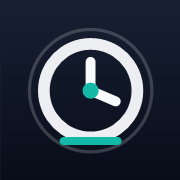
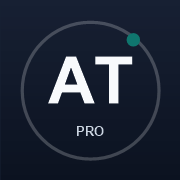
test

Changed region(s): [[0.1111, 0.1111, 0.9167, 0.9167]]

diff --git a/app.html b/app.html
@@ -9,6 +9,7 @@
     <meta name="apple-mobile-web-app-title" content="Arch Time">
     <meta name="apple-mobile-web-app-status-bar-style" content="black-translucent">
     <link rel="manifest" href="/manifest.webmanifest">
+<<<<<<< HEAD
     <link rel="icon" type="image/png" sizes="32x32" href="/assets/icons/favicon-32-symbol.png">
     <link rel="apple-touch-icon" href="/apple-touch-icon.png">
     <link rel="apple-touch-icon-precomposed" href="/apple-touch-icon-precomposed.png">
@@ -16,6 +17,10 @@
     <link rel="apple-touch-icon" sizes="152x152" href="/apple-touch-icon-152.png">
     <link rel="apple-touch-icon" sizes="167x167" href="/apple-touch-icon-167.png">
     <link rel="apple-touch-icon" sizes="180x180" href="/apple-touch-icon-180.png">
+=======
+    <link rel="icon" type="image/png" sizes="32x32" href="/assets/icons/favicon-32.png">
+    <link rel="apple-touch-icon" sizes="180x180" href="/assets/icons/apple-touch-icon.png">
+>>>>>>> parent of e8267b9 (replace ios icon with symbol)
     <meta name="robots" content="noindex, nofollow">
     <title>Arch Time Pro - Studio & Impresa Management</title>
     <script>

diff --git a/guida.html b/guida.html
@@ -9,6 +9,7 @@
     <meta name="apple-mobile-web-app-title" content="Arch Time">
     <meta name="apple-mobile-web-app-status-bar-style" content="black-translucent">
     <link rel="manifest" href="/manifest.webmanifest">
+<<<<<<< HEAD
     <link rel="icon" type="image/png" sizes="32x32" href="/assets/icons/favicon-32-symbol.png">
     <link rel="apple-touch-icon" href="/apple-touch-icon.png">
     <link rel="apple-touch-icon-precomposed" href="/apple-touch-icon-precomposed.png">
@@ -16,6 +17,10 @@
     <link rel="apple-touch-icon" sizes="152x152" href="/apple-touch-icon-152.png">
     <link rel="apple-touch-icon" sizes="167x167" href="/apple-touch-icon-167.png">
     <link rel="apple-touch-icon" sizes="180x180" href="/apple-touch-icon-180.png">
+=======
+    <link rel="icon" type="image/png" sizes="32x32" href="/assets/icons/favicon-32.png">
+    <link rel="apple-touch-icon" sizes="180x180" href="/assets/icons/apple-touch-icon.png">
+>>>>>>> parent of e8267b9 (replace ios icon with symbol)
     <meta name="robots" content="noindex, nofollow">
     <title>Il Metodo | Arch Time Pro</title>
     <script src="https://cdn.tailwindcss.com"></script>

diff --git a/index.html b/index.html
@@ -9,6 +9,7 @@
     <meta name="apple-mobile-web-app-title" content="Arch Time">
     <meta name="apple-mobile-web-app-status-bar-style" content="black-translucent">
     <link rel="manifest" href="/manifest.webmanifest">
+<<<<<<< HEAD
     <link rel="icon" type="image/png" sizes="32x32" href="/assets/icons/favicon-32-symbol.png">
     <link rel="apple-touch-icon" href="/apple-touch-icon.png">
     <link rel="apple-touch-icon-precomposed" href="/apple-touch-icon-precomposed.png">
@@ -16,6 +17,10 @@
     <link rel="apple-touch-icon" sizes="152x152" href="/apple-touch-icon-152.png">
     <link rel="apple-touch-icon" sizes="167x167" href="/apple-touch-icon-167.png">
     <link rel="apple-touch-icon" sizes="180x180" href="/apple-touch-icon-180.png">
+=======
+    <link rel="icon" type="image/png" sizes="32x32" href="/assets/icons/favicon-32.png">
+    <link rel="apple-touch-icon" sizes="180x180" href="/assets/icons/apple-touch-icon.png">
+>>>>>>> parent of e8267b9 (replace ios icon with symbol)
     <meta name="robots" content="noindex, nofollow">
     <title>Arch Time Pro | Margini chiari senza un nuovo gestionale</title>
     <script src="https://cdn.tailwindcss.com"></script>

diff --git a/offline.html b/offline.html
@@ -6,6 +6,7 @@
     <meta name="theme-color" content="#172033">
     <meta name="robots" content="noindex, nofollow">
     <link rel="manifest" href="/manifest.webmanifest">
+<<<<<<< HEAD
     <link rel="icon" type="image/png" sizes="32x32" href="/assets/icons/favicon-32-symbol.png">
     <link rel="apple-touch-icon" href="/apple-touch-icon.png">
     <link rel="apple-touch-icon-precomposed" href="/apple-touch-icon-precomposed.png">
@@ -13,6 +14,10 @@
     <link rel="apple-touch-icon" sizes="152x152" href="/apple-touch-icon-152.png">
     <link rel="apple-touch-icon" sizes="167x167" href="/apple-touch-icon-167.png">
     <link rel="apple-touch-icon" sizes="180x180" href="/apple-touch-icon-180.png">
+=======
+    <link rel="icon" type="image/png" sizes="32x32" href="/assets/icons/favicon-32.png">
+    <link rel="apple-touch-icon" sizes="180x180" href="/assets/icons/apple-touch-icon.png">
+>>>>>>> parent of e8267b9 (replace ios icon with symbol)
     <title>Connessione assente | Arch Time Pro</title>
     <style>
         * { box-sizing: border-box; }

diff --git a/tutorial.html b/tutorial.html
@@ -9,6 +9,7 @@
     <meta name="apple-mobile-web-app-title" content="Arch Time">
     <meta name="apple-mobile-web-app-status-bar-style" content="black-translucent">
     <link rel="manifest" href="/manifest.webmanifest">
+<<<<<<< HEAD
     <link rel="icon" type="image/png" sizes="32x32" href="/assets/icons/favicon-32-symbol.png">
     <link rel="apple-touch-icon" href="/apple-touch-icon.png">
     <link rel="apple-touch-icon-precomposed" href="/apple-touch-icon-precomposed.png">
@@ -16,6 +17,10 @@
     <link rel="apple-touch-icon" sizes="152x152" href="/apple-touch-icon-152.png">
     <link rel="apple-touch-icon" sizes="167x167" href="/apple-touch-icon-167.png">
     <link rel="apple-touch-icon" sizes="180x180" href="/apple-touch-icon-180.png">
+=======
+    <link rel="icon" type="image/png" sizes="32x32" href="/assets/icons/favicon-32.png">
+    <link rel="apple-touch-icon" sizes="180x180" href="/assets/icons/apple-touch-icon.png">
+>>>>>>> parent of e8267b9 (replace ios icon with symbol)
     <meta name="robots" content="noindex, nofollow">
     <title>Tutorial | Arch Time Pro</title>
     <script src="https://cdn.tailwindcss.com"></script>